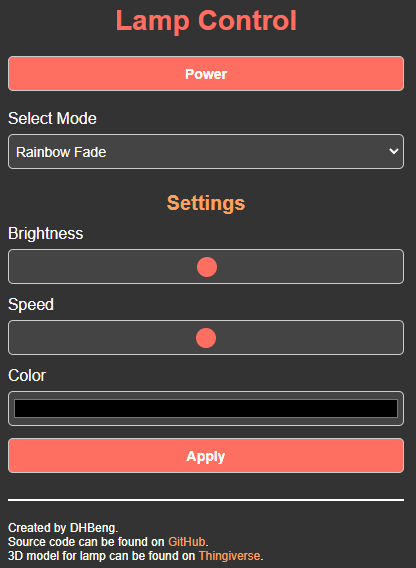
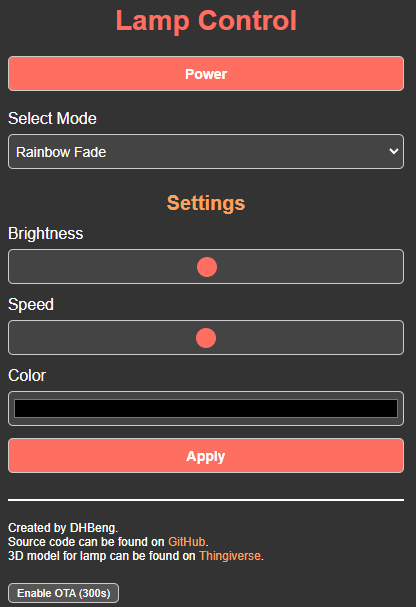
update config/README
config.h defines OTA_PASSWORD and OTA_HOSTNAME
README.md updated to mention ESP32/ESP8266 support and include OTA update instructions.
GUI image was also refreshed.

Changed region(s): [[0.0, 0.3592, 0.9688, 1.0], [0.0, 0.0898, 0.9688, 0.3891], [0.2812, 0.0, 0.7188, 0.0599]]

diff --git a/config.h b/config.h
@@ -3,3 +3,6 @@
 #define SECRET_SSID "WIFI_NAME"
 #define SECRET_PASS "WIFI_PASSWORD"
 const IPAddress IP(0, 0, 0, 0);
+
+#define OTA_PASSWORD "Lamp"
+#define OTA_HOSTNAME "Lamp"

diff --git a/README.md b/README.md
@@ -41,7 +41,7 @@ Using the GUI it is possible to switch the lamp on and off and setting up the di
 The Arduino uses C / C ++ code to create the website to control the lamp. It is done by sending HTML code using a couple of println functions. Since the HTML code is handled as strings inside the arduino code it would be difficult to build the website directly in there. There is now syntax check or other tools to make coding more easy. Therefore I decided to write the code for the GUI in a separate HTML file. To convert this code into something the arduino can use i wrote a short python script to convert this code into a couple of println commands which are stored in a separet file and can be just copied into the program.
 
 ## Hardware
-The code is written and tested for an [Arduino Nano 33 IoT](https://store.arduino.cc/arduino-nano-33-iot "store.arduino.cc"). This micro controller has a own WiFI antenna and therefore no extension board was needed.
+The code is written and tested for an [Arduino Nano 33 IoT](https://store.arduino.cc/arduino-nano-33-iot "store.arduino.cc"), [ESP32](https://www.espressif.com/en/products/socs/esp32 "ESP32") and [ESP8266](https://www.espressif.com/en/products/socs/esp8266 "ESP8266"). This micro controller has a own WiFI antenna and therefore no extension board was needed.
 
 ## Setup and installation
 In order to use this software with your local network it is necessary to make some configurations before downloading the software on to the arduino. Use the file config.h to do this. First of all you have to enter the name and password of the WiFi network you want to connect to. It is also possible to enter a static IP address. You can also configure a static ip address. If the ip address is set to 0.0.0.0 the arduino will be connected using DHCP.
@@ -49,3 +49,10 @@ In order to use this software with your local network it is necessary to make so
     #define SECRET_SSID "WiFI_NAME"
     #define SECRET_PASS "PASSWORD"
     const IPAddress IP(0, 0, 0, 0);
+
+## OTA updates
+The software supports OTA updates. This means that after the initial setup it is possible to update the software without connecting the controller to the computer. This is done by connecting the controller to the same WiFi network as the computer, in the web GUI of the controller clicking on the "Enable OTA" button (OTA will be possible during the next 5 minutes) and using the Arduino IDE to upload the software. The lamp controller will be listed as a network port and can be selected to upload the software.
+
+Arduino IDE will ask for a password before uploading the software. The default password is "Lamp". You can change this password in the config.h file.
+
+    #define OTA_PASSWORD "Lamp"
